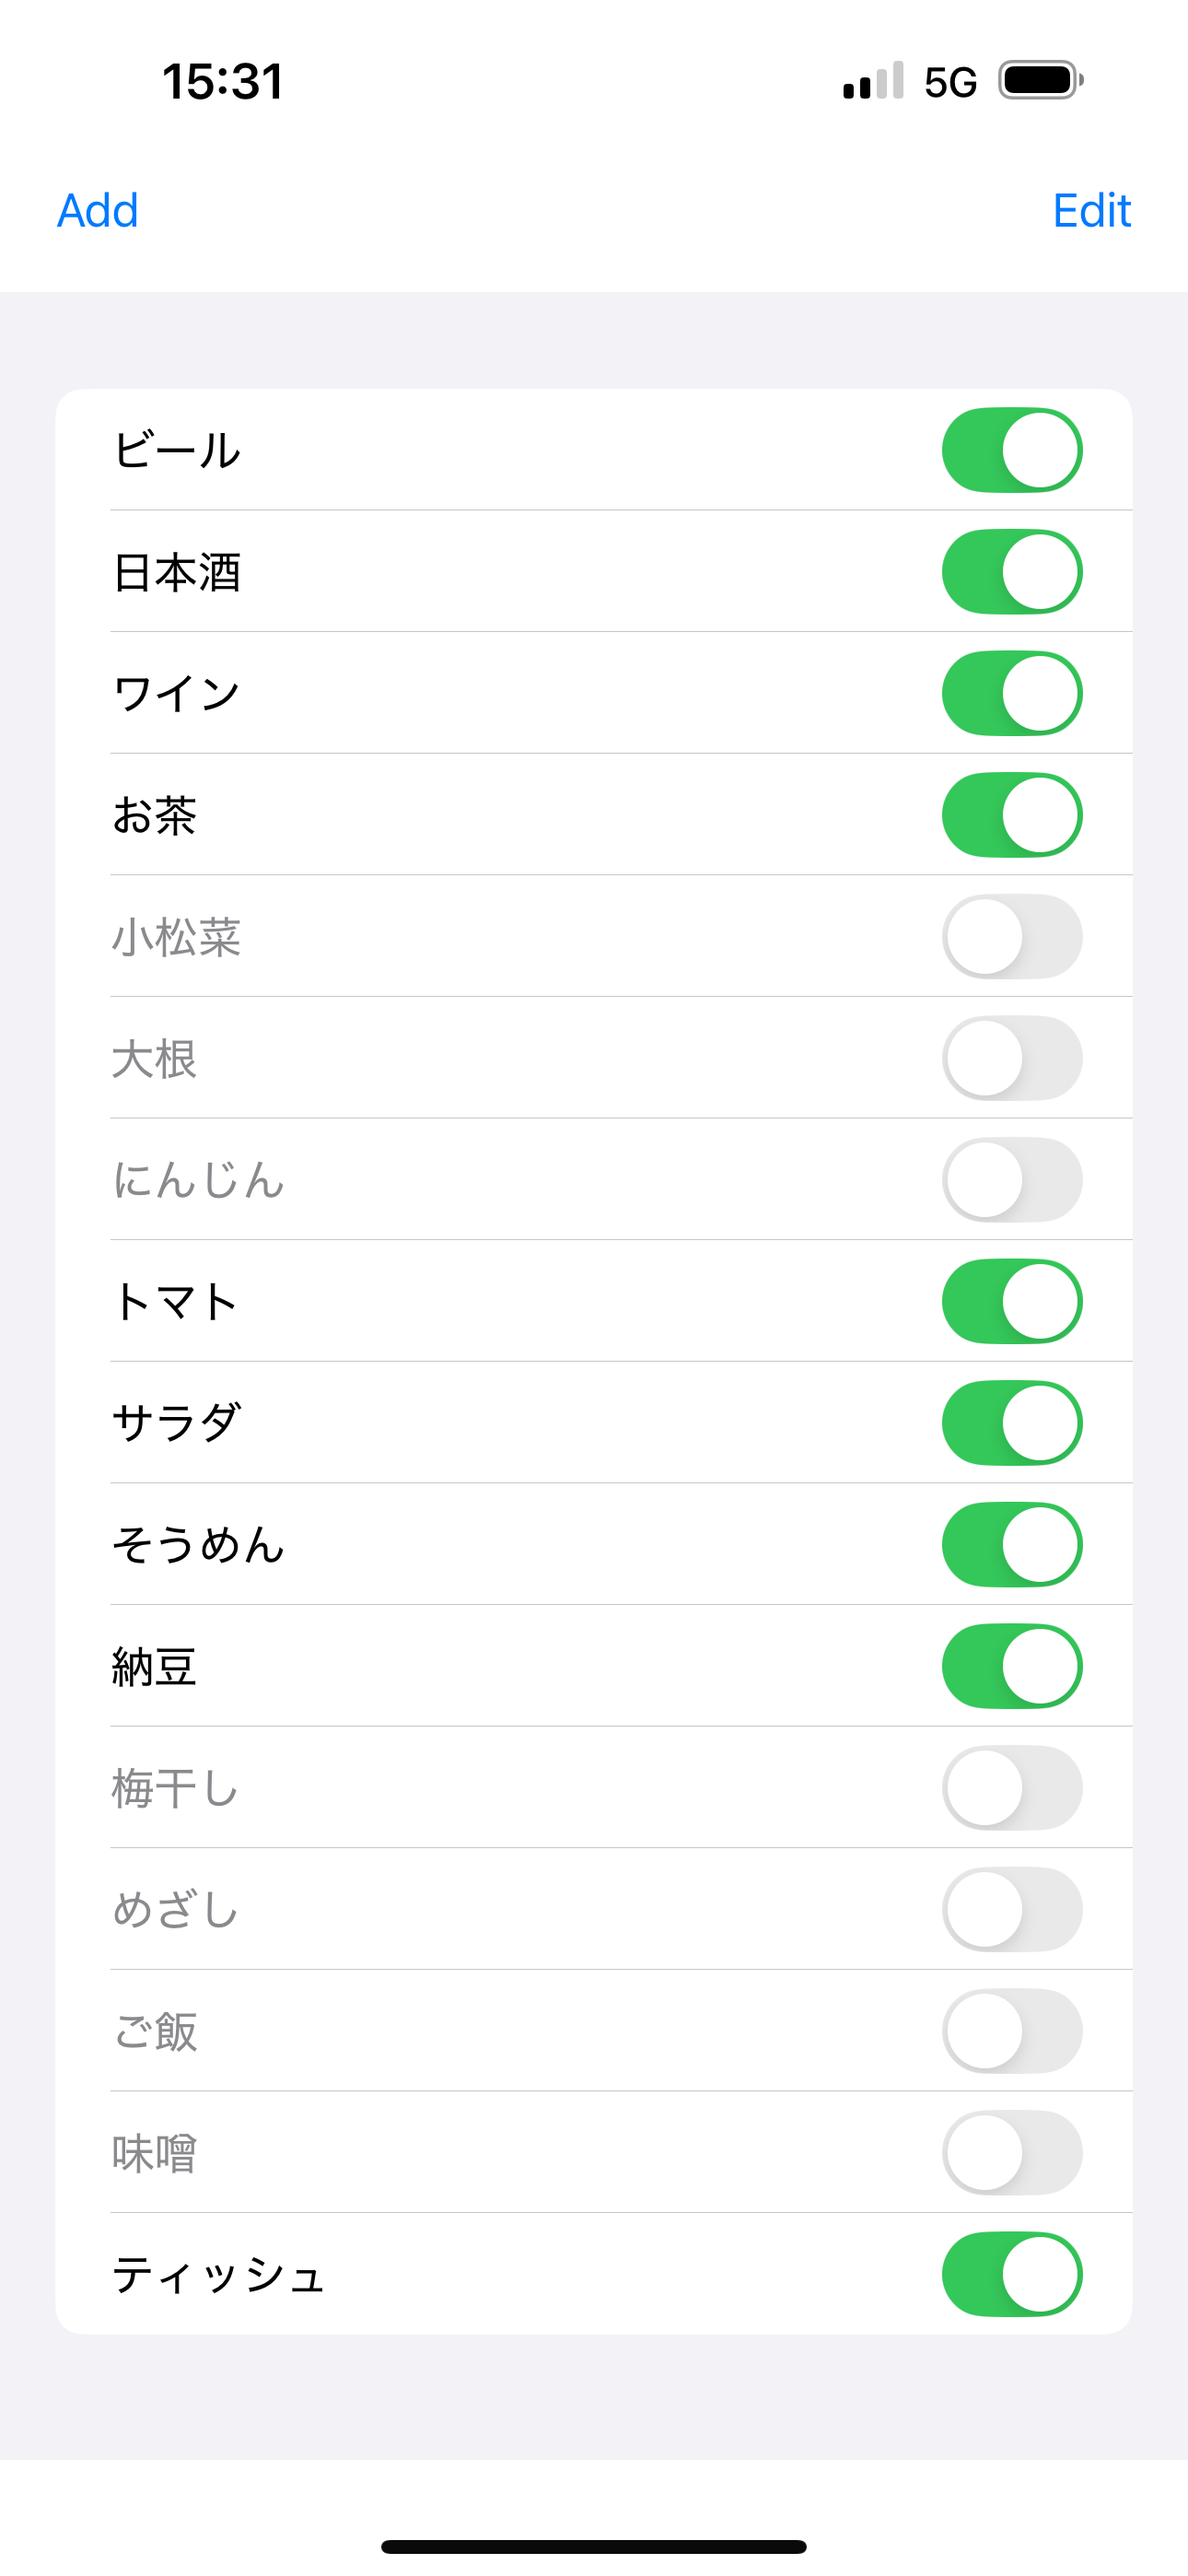
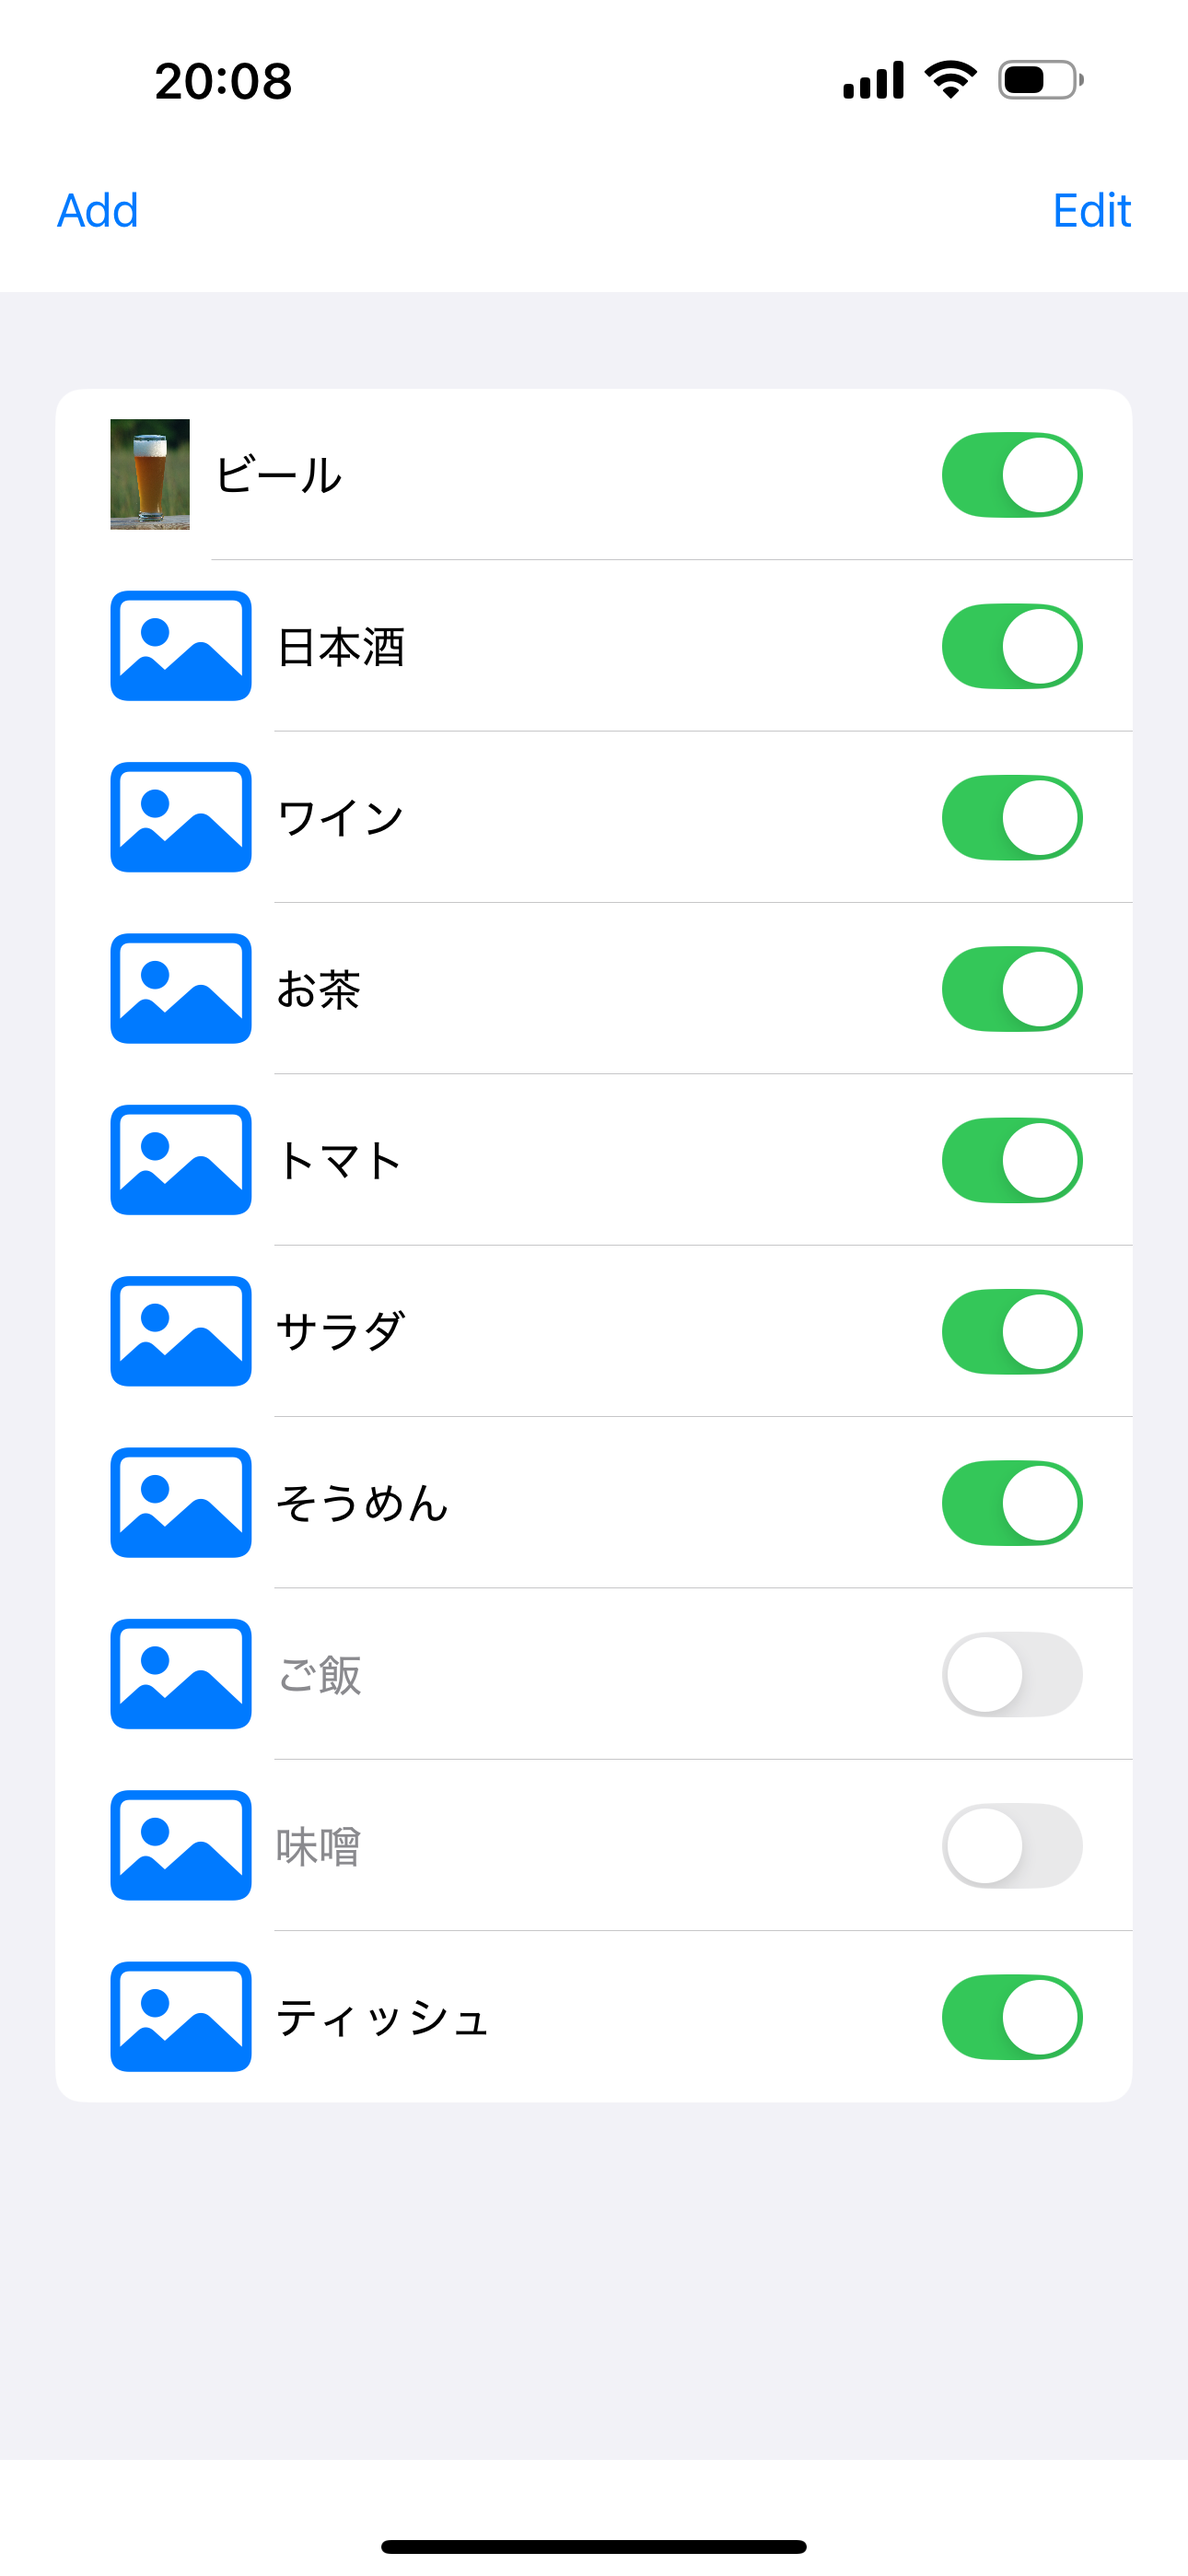
MyShoppingList更新

diff --git a/MyShoppingList.html b/MyShoppingList.html
@@ -6,6 +6,7 @@
   <title>お買い物一覧</title>
   <link href="https://maxcdn.bootstrapcdn.com/font-awesome/4.7.0/css/font-awesome.min.css" rel="stylesheet" integrity="sha384-wvfXpqpZZVQGK6TAh5PVlGOfQNHSoD2xbE+QkPxCAFlNEevoEH3Sl0sibVcOQVnN" crossorigin="anonymous">
   <link rel="stylesheet" type="text/css" href="stylesheet.css">
+  <link rel="stylesheet" type="text/css" href="stylesheet4Columns.css">
   <link rel="icon" href="./icon/MyShoppingList_favicon.ico">
   <link rel="apple-touch-icon" sizes="180x180" href="./icon/MyShoppingList_apple-touch-icon-180x180.png">
 </head>
@@ -40,7 +41,7 @@
   <div class="top-wrapper">
     <div class="container">
       <h1>概要</h1>
-      <p>お買い物一覧は買いたいアイテムを選択できるお買い物一覧を作成するアプリです。<br>アイテムの登録、削除、順番の変更ができます。</p>
+      <p>お買い物一覧は買いたいアイテムを選択できるお買い物一覧を作成するアプリです。<br>アイテムの登録、削除、順番の変更ができます。<br>アイテムの画像の登録、削除ができます。</p>
     </div>
   </div>
   <div class="lesson-wrapper" id="section1">
@@ -66,6 +67,12 @@
             <a href="./images/MyShoppingList_0003.PNG"><img src="./images/MyShoppingList_0003.PNG"></a>
           </div>
           <p class="text-contents">編集画面です。アイテムの削除、順番の変更ができます。</p>
+        </div>
+        <div class="lesson">
+          <div class="lesson-icon">
+            <a href="./images/MyShoppingList_0004.PNG"><img src="./images/MyShoppingList_0004.PNG"></a>
+          </div>
+          <p class="text-contents">画像画面です。アイテムの画像の登録、削除ができます。</p>
         </div>
       </div>
       <div class="clear"></div>
